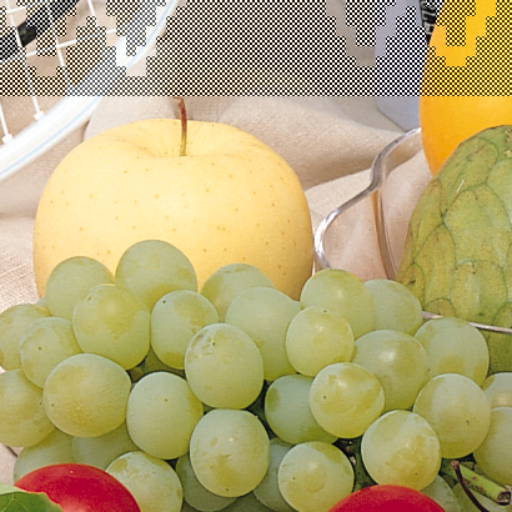
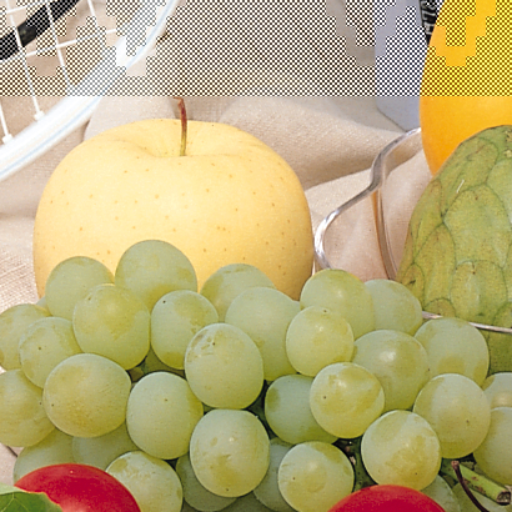
project2 代码更新

Changed region(s): [[0.0, 0.0, 1.0, 0.1875]]

diff --git a/Project2/src/image_attacks.py b/Project2/src/image_attacks.py
@@ -107,31 +107,15 @@ class ImageAttacker:
             save_image(adjusted_image, self._get_output_path(output_path, "bright_contrast", f"a{alpha}_b{beta}"))
         return adjusted_image
 
-    def jpeg_compress(self, image_data, quality, output_path=None):
-        """
-        JPEG 压缩图片。
-        Args:
-            image_data (np.array): 图片数据。
-            quality (int): JPEG 压缩质量 (0-100, 100为最高质量)。
-            output_path (str): 保存路径。
-        Returns:
-            np.array: 压缩后的图片。
-        """
-        # 注意：cv2.imwrite 会根据文件扩展名自动处理压缩
-        # 所以这里我们只改变 output_path 的扩展名为 .jpg
-        if output_path:
-            # 确保保存路径是 .jpg
-            jpeg_output_path = os.path.splitext(output_path)[0] + f"_jpeg{quality}.jpg"
-            cv2.imwrite(jpeg_output_path, image_data, [cv2.IMWRITE_JPEG_QUALITY, quality])
-            print(f"JPEG 压缩图片已保存到: {jpeg_output_path}")
-            # 重新加载压缩后的图片，因为 imwrite 保存后可能无法直接使用原始数据进行后续处理
-            # 尤其是有损压缩
-            return load_image(jpeg_output_path)
-        else:
-            # 如果没有输出路径，则不能直接进行 JPEG 压缩
-            # 因为 JPEG 压缩是有损的，需要保存和重新加载才能体现效果
-            print("警告: JPEG压缩需要指定 output_path 来保存并重新加载以体现压缩效果。")
-            return image_data
+    # 在image_attacks.py中修改
+    def jpeg_compress(self, image, quality, output_path):
+        # 确保输出路径使用.jpg扩展名
+        base_name = os.path.splitext(output_path)[0]
+        jpeg_path = f"{base_name}_jpeg{quality}.jpg"
+
+        # 保存为JPEG
+        cv2.imwrite(jpeg_path, image, [int(cv2.IMWRITE_JPEG_QUALITY), quality])
+        return cv2.imread(jpeg_path)  # 返回加载的图像数据
 
 
 if __name__ == "__main__":

diff --git a/Project2/main.py b/Project2/main.py
@@ -18,7 +18,7 @@ ATTACKED_IMAGES_DIR = 'results/attacked_images/'
 EXTRACTED_WATERMARKS_DIR = 'results/extracted_watermarks/'
 
 WATERMARK_SIZE = (32, 32)  # 原始水印尺寸，必须和生成水印时一致
-EMBED_ALPHA = 5.0  # 水印嵌入强度，需要反复试验找到最佳值
+EMBED_ALPHA = 3.0  # 水印嵌入强度，需要反复试验找到最佳值
 
 
 def main():
@@ -189,13 +189,24 @@ def main():
     # JPEG 压缩
     print("测试 JPEG 压缩...")
     for quality in [90, 75, 50, 25]:
-        attacked_img_path = attacker.jpeg_compress(watermarked_image, quality, base_attack_path)
-        if attacked_img_path is None:
-            print(f"  - JPEG 压缩质量 {quality}: 攻击失败")
+        attacked_img = attacker.jpeg_compress(watermarked_image, quality, base_attack_path)
+        if attacked_img is None:
+            print(f"  - JPEG Q{quality}: 压缩失败")
             continue
 
-        extracted_wm_path = os.path.join(EXTRACTED_WATERMARKS_DIR, f"extracted_wm_jpeg{quality}.png")
-        extracted_wm = extractor.extract_watermark(attacked_img_path, extracted_wm_path)
+        # 1. 先把攻击后的数组保存成临时文件（与原图同名，带后缀）
+        jpeg_attack_path = os.path.join(
+            ATTACKED_IMAGES_DIR,
+            f"fruits_watermarked_jpeg{quality}.jpg"
+        )
+        save_image(attacked_img, jpeg_attack_path)
+
+        # 2. 再用已有接口提取
+        extracted_wm_path = os.path.join(
+            EXTRACTED_WATERMARKS_DIR,
+            f"extracted_wm_jpeg{quality}.png"
+        )
+        extracted_wm = extractor.extract_watermark(jpeg_attack_path, extracted_wm_path)
 
         if extracted_wm is not None:
             ncc = calculate_ncc(original_watermark, extracted_wm)
